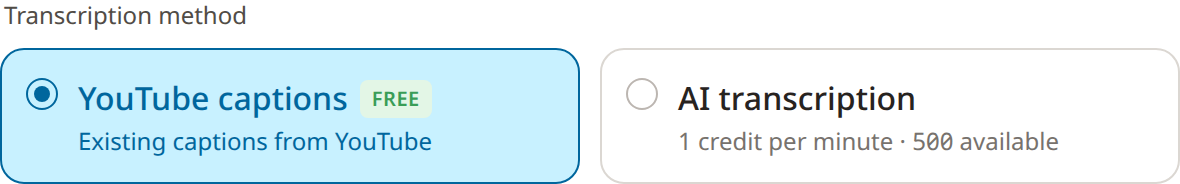
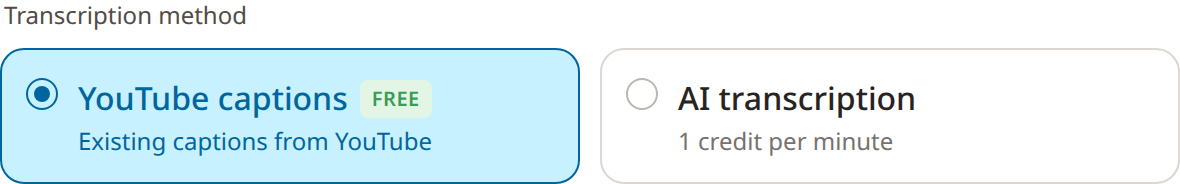
feat(capture): close ErrorCard coverage + storageState + robust anchors + uploader
FASE 2 (beeldmachine afmaken):
- 2a coverage: added invalid_request + watchdog_permanent_failure cards to errorCopy so no
  backend code falls to the generic fallback. watchdog states the refund EXPLICITLY —
  verified in code first (worker.py:800-838 books the refund BEFORE claiming status=error;
  a failed refund leaves the job 'interrupted' for retry, so the user never sees this code
  with credits still held). no_speech_detected KEPT — not a dead alias (VideoTab.tsx:219,910
  check it as a message-string path distinct from job.error_type==='no_speech'). Backend↔card
  coverage now closed both ways (test/invalid_request/watchdog resolved).
- 2b robust anchors: playlist-review now anchors on the 'Review extraction' button ROLE (was
  div.rounded-2xl shape); library-row anchors on the transcript href link. A renamed control
  fails the capture instead of silently shooting a different card.
- 2c speed: one shared logged-in session via global-setup + storageState (was per-test login).
  Full run in one command; local stubbed/UI batch 41 assets in 162s, live-backend batch 5 in 37s.
- 2d new captures: uploader-empty (Audio tab, formats + 500MB limit in view) + the storage_full
  card (already in the ErrorCard sweep). Stubbed captures use a dummy video id so the
  'already in your library' dedup prompt can't intercept the Extract click.

46 assets total. capture-state.json (session) gitignored.

Changed region(s): [[0.7627, 0.7065, 0.9153, 0.8152]]

diff --git a/tests/playwright/capture/quickstart-capture.spec.ts b/tests/playwright/capture/quickstart-capture.spec.ts
@@ -11,29 +11,24 @@
  * NOT that the backend emits that code in that situation.
  */
 import { test, type Page, type Locator } from '@playwright/test'
-import { loginAs } from '../helpers/auth'
-import { account1 } from '../config/accounts'
 import * as path from 'path'
 import * as fs from 'fs'
 
 const OUT = path.resolve(__dirname, '../../../apps/marketing/public/docs/screenshots')
 const VIDEO_URL = 'https://www.youtube.com/watch?v=kBdfcR-8hEY'
+// Stubbed captures use a dummy 11-char video id so the "already in your library" dedup prompt never
+// intercepts the Extract click (the stub ignores which video it is — only the rendered card matters).
+const STUB_URL = 'https://www.youtube.com/watch?v=STUBCARD001'
 const PLAYLIST_URL = 'https://www.youtube.com/playlist?list=PL30C13C91CFFEFEA6'
-const CONSENT = JSON.stringify({
-  ad_storage: 'granted', analytics_storage: 'granted', ad_user_data: 'granted',
-  ad_personalization: 'granted', version: '1', ts: 1785000000000,
-})
 
 fs.mkdirSync(OUT, { recursive: true })
 
+// Session + consent + light theme come from the shared storageState (global-setup); each test just
+// pins the theme attribute before first paint so there's no light/dark flash in the screenshot.
 async function prep(page: Page) {
-  await page.addInitScript((consent) => {
-    localStorage.setItem('indxr_consent', consent as string)
-    localStorage.setItem('theme', 'light')
+  await page.addInitScript(() => {
     try { document.documentElement.setAttribute('data-theme', 'light') } catch {}
-  }, CONSENT)
-  await page.emulateMedia({ colorScheme: 'light' })
-  await loginAs(page, account1) // cookie-injected session; navigates to /dashboard/library
+  })
 }
 
 async function save(el: Locator, name: string) {
@@ -95,9 +90,11 @@ test('captions-result + export-menu (live)', async ({ page }) => {
 test('library-row (live)', async ({ page }) => {
   await prep(page)
   await page.goto('/dashboard/library')
-  // Each list row is a direct child div of the divide-y container (TranscriptList.tsx:609-618).
-  const row = page.locator('div.divide-y > div').first()
-  await row.waitFor({ state: 'visible', timeout: 20_000 })
+  // Anchor on the row's transcript link (stable href pattern), then screenshot the row it sits in
+  // (a direct child of the divide-y list) — not a bare shape selector.
+  const rowLink = page.locator('a[href*="/dashboard/library/"]').first()
+  await rowLink.waitFor({ state: 'visible', timeout: 20_000 })
+  const row = rowLink.locator('xpath=ancestor::div[parent::div[contains(@class,"divide-y")]][1]')
   await save(row, 'library-row')
 })
 
@@ -108,9 +105,22 @@ test('playlist-review (live)', async ({ page }) => {
   await page.goto('/dashboard/transcribe?mode=playlist')
   await page.getByPlaceholder('Paste YouTube Playlist URL...').fill(PLAYLIST_URL)
   await page.getByRole('button', { name: 'Fetch playlist' }).click()
-  const review = page.locator('div.rounded-2xl').filter({ hasText: /videos/ }).first()
-  await review.waitFor({ state: 'visible', timeout: 90_000 })
+  // Anchor on the visible ROLE (the review screen's action button), not a shape class — a renamed
+  // button fails this capture instead of silently shooting a different card.
+  const reviewBtn = page.getByRole('button', { name: /Review extraction/ })
+  await reviewBtn.waitFor({ state: 'visible', timeout: 90_000 })
+  const review = reviewBtn.locator('xpath=ancestor::div[contains(@class,"rounded-2xl")][1]')
   await save(review, 'playlist-review')
+})
+
+// ── LIVE UI: empty Audio uploader with the accepted formats + size limit in view ─
+test('uploader-empty (live UI)', async ({ page }) => {
+  await prep(page)
+  await page.goto('/dashboard/transcribe?mode=audio')
+  const hint = page.getByText('Drag and drop your audio file here', { exact: false })
+  await hint.waitFor({ state: 'visible' })
+  const dropzone = hint.locator('xpath=ancestor::div[contains(@class,"border-dashed")][1]')
+  await save(dropzone, 'uploader-empty')
 })
 
 // ── STUBBED: progress cards (Downloading audio / Transcribing) ────────────────
@@ -124,7 +134,7 @@ for (const [phase, name] of [['downloading', 'progress-downloading'], ['transcri
     await page.route('**/api/jobs/stub-job**', (r) =>
       r.fulfill({ json: { status: phase, duration_seconds: 3296, credits_cost: 55, download_bytes: 2_400_000, download_total_bytes: 6_000_000 } }))
     await page.goto('/dashboard/transcribe')
-    await page.getByPlaceholder('https://www.youtube.com/watch?v=...').fill(VIDEO_URL)
+    await page.getByPlaceholder('https://www.youtube.com/watch?v=...').fill(STUB_URL)
     await page.getByRole('radio', { name: /AI transcription/ }).click()
     await page.getByRole('button', { name: /Extract|Checking/ }).click()
     await page.getByRole('button', { name: /^Extract — \d+\+? credits$/ }).click() // hits STUBBED whisper → no charge
@@ -149,7 +159,7 @@ test('ai-result (stubbed)', async ({ page }) => {
     ],
   } }))
   await page.goto('/dashboard/transcribe')
-  await page.getByPlaceholder('https://www.youtube.com/watch?v=...').fill(VIDEO_URL)
+  await page.getByPlaceholder('https://www.youtube.com/watch?v=...').fill(STUB_URL)
   await page.getByRole('radio', { name: /AI transcription/ }).click()
   await page.getByRole('button', { name: /Extract|Checking/ }).click()
   await page.getByRole('button', { name: /^Extract — \d+\+? credits$/ }).click()
@@ -166,7 +176,8 @@ const ERROR_CODES = [
   'duration_error', 'duration_exceeds_max', 'file_too_large', 'too_many_jobs', 'too_many_videos',
   'suspended', 'unauthorized', 'channel_url', 'unsupported_file', 'api_error', 'compression_error',
   'worker_crashed', 'stuck_pending', 'credit_deduction_failed', 'credit_check_error',
-  'validation_error', 'internal_error', 'zzz_unknown_fallback',
+  'validation_error', 'internal_error', 'invalid_request', 'watchdog_permanent_failure',
+  'zzz_unknown_fallback',
 ]
 for (const code of ERROR_CODES) {
   test(`errorcard ${code} (stubbed)`, async ({ page }) => {
@@ -176,7 +187,7 @@ for (const code of ERROR_CODES) {
       json: { success: false, error_type: code, error: 'stub', required_credits: 100 },
     }))
     await page.goto('/dashboard/transcribe')
-    await page.getByPlaceholder('https://www.youtube.com/watch?v=...').fill(VIDEO_URL)
+    await page.getByPlaceholder('https://www.youtube.com/watch?v=...').fill(STUB_URL)
     await page.getByRole('button', { name: /^Extract$/ }).click()
     const card = page.locator('.border-l-error').first()
     await card.waitFor({ state: 'visible', timeout: 15_000 })

diff --git a/packages/shared/src/components/transcribe/errorCopy.ts b/packages/shared/src/components/transcribe/errorCopy.ts
@@ -281,6 +281,24 @@ const COPY: Record<string, Entry> = {
       "We couldn't complete this because of a problem on our end — not your video. No credits were used. Please try again.",
     actions: retryOrAudio,
   },
+  // watchdog_permanent_failure: the job was interrupted and auto-recovery failed, so the watchdog
+  // gave up. The refund is GUARANTEED before this code is ever set: worker.py:800-838 books the
+  // refund FIRST and only then claims status=error — a failed refund leaves the job 'interrupted'
+  // for the next cycle, so the user never sees this code with credits still held. The body says so.
+  watchdog_permanent_failure: {
+    title: "We gave up on this job — and refunded it",
+    body: () =>
+      "This transcription was interrupted, and our automatic recovery couldn't finish it, so we stopped retrying. The credits you reserved for it have been returned. Start it again whenever you're ready.",
+    actions: retryOrAudio,
+  },
+  // invalid_request: a malformed/missing-field request (backend/main.py:850-886) — rejected before
+  // anything ran or was charged. Rare in normal use; retry is the fix.
+  invalid_request: {
+    title: "That request didn't come through",
+    body: () =>
+      "Something was missing or malformed in the request, so nothing was processed and no credits were used. Please try again.",
+    actions: retryOrAudio,
+  },
 }
 
 /**

diff --git a/tests/playwright/capture/global-setup.ts b/tests/playwright/capture/global-setup.ts
@@ -1,0 +1,29 @@
+import { chromium } from "@playwright/test"
+import { loginAs } from "../helpers/auth"
+import { account1 } from "../config/accounts"
+import * as path from "path"
+
+// Log in ONCE and persist the session + consent + theme to a storageState file, so every
+// capture reuses it instead of minting a Supabase session per test (that per-test login is
+// what pushed a full live run over the timeout). See playwright.capture.config.ts (use.storageState).
+export const STORAGE_STATE = path.resolve(__dirname, "capture-state.json")
+
+export default async function globalSetup() {
+  const baseURL = process.env.BASE_URL ?? "http://localhost:3001"
+  const browser = await chromium.launch()
+  const ctx = await browser.newContext({ baseURL })
+  const page = await ctx.newPage()
+  await loginAs(page, account1) // mints the Supabase session, injects cookies, lands on /dashboard
+  await page.evaluate(() => {
+    localStorage.setItem(
+      "indxr_consent",
+      JSON.stringify({
+        ad_storage: "granted", analytics_storage: "granted", ad_user_data: "granted",
+        ad_personalization: "granted", version: "1", ts: 1785000000000,
+      }),
+    )
+    localStorage.setItem("theme", "light")
+  })
+  await ctx.storageState({ path: STORAGE_STATE })
+  await browser.close()
+}

diff --git a/playwright.capture.config.ts b/playwright.capture.config.ts
@@ -6,12 +6,15 @@ import { defineConfig, devices } from '@playwright/test'
 // picks this up (different testDir), so the 9 specs are neither slowed nor broken.
 export default defineConfig({
   testDir: './tests/playwright/capture',
+  globalSetup: './tests/playwright/capture/global-setup.ts',
   fullyParallel: false,
   workers: 1,
   retries: 0,
   reporter: [['list']],
   use: {
     baseURL: process.env.BASE_URL ?? 'http://localhost:3001',
+    // One shared logged-in session (+ consent + light theme), minted once in global-setup.
+    storageState: './tests/playwright/capture/capture-state.json',
     viewport: { width: 1280, height: 800 },
     deviceScaleFactor: 2,
     colorScheme: 'light',

diff --git a/docs/LOG.md b/docs/LOG.md
@@ -15298,3 +15298,37 @@ apps/marketing/src/lib/docs-config.ts
 packages/shared/src/components/TranscriptCard.tsx
 packages/shared/src/lib/exportFormats.ts
 ---
+[2026-08-03 01:34] commit: feat(capture): close ErrorCard coverage + storageState + robust anchors + uploader
+
+FASE 2 (beeldmachine afmaken):
+- 2a coverage: added invalid_request + watchdog_permanent_failure cards to errorCopy so no
+  backend code falls to the generic fallback. watchdog states the refund EXPLICITLY —
+  verified in code first (worker.py:800-838 books the refund BEFORE claiming status=error;
+  a failed refund leaves the job 'interrupted' for retry, so the user never sees this code
+  with credits still held). no_speech_detected KEPT — not a dead alias (VideoTab.tsx:219,910
+  check it as a message-string path distinct from job.error_type==='no_speech'). Backend↔card
+  coverage now closed both ways (test/invalid_request/watchdog resolved).
+- 2b robust anchors: playlist-review now anchors on the 'Review extraction' button ROLE (was
+  div.rounded-2xl shape); library-row anchors on the transcript href link. A renamed control
+  fails the capture instead of silently shooting a different card.
+- 2c speed: one shared logged-in session via global-setup + storageState (was per-test login).
+  Full run in one command; local stubbed/UI batch 41 assets in 162s, live-backend batch 5 in 37s.
+- 2d new captures: uploader-empty (Audio tab, formats + 500MB limit in view) + the storage_full
+  card (already in the ErrorCard sweep). Stubbed captures use a dummy video id so the
+  'already in your library' dedup prompt can't intercept the Extract click.
+
+46 assets total. capture-state.json (session) gitignored.
+
+Co-Authored-By: Claude Opus 4.8 (1M context) <noreply@anthropic.com>
+Changed: .gitignore
+apps/marketing/public/docs/screenshots/error-invalid_request.png
+apps/marketing/public/docs/screenshots/error-watchdog_permanent_failure.png
+apps/marketing/public/docs/screenshots/library-row.png
+apps/marketing/public/docs/screenshots/method-choice.png
+apps/marketing/public/docs/screenshots/progress-transcribing.png
+apps/marketing/public/docs/screenshots/uploader-empty.png
+packages/shared/src/components/transcribe/errorCopy.ts
+playwright.capture.config.ts
+tests/playwright/capture/global-setup.ts
+tests/playwright/capture/quickstart-capture.spec.ts
+---
